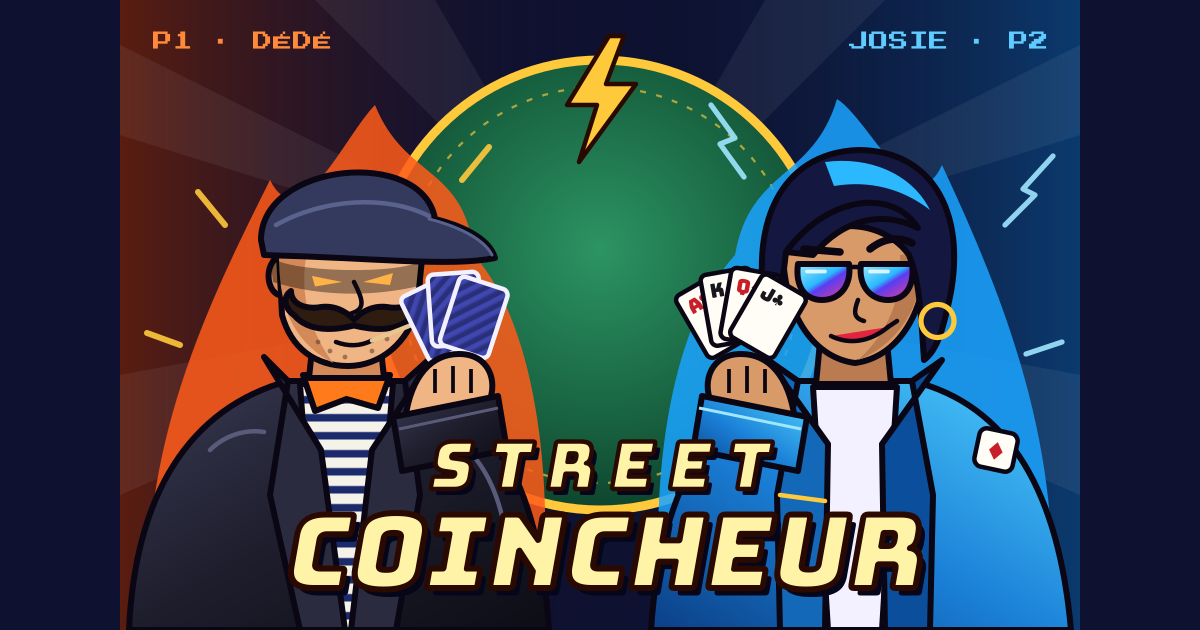
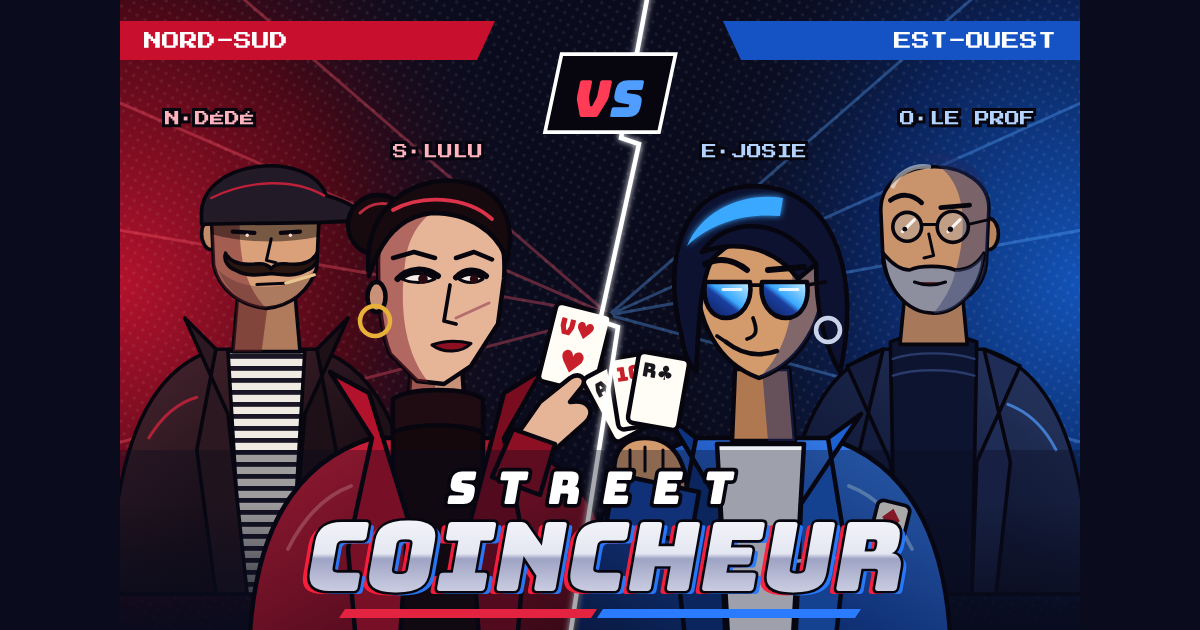
Accueil : affiche 2 contre 2, Nord-Sud en rouge contre Est-Ouest en bleu
Quatre personnages (Dédé, Lulu, Josie, le Prof) en écran de sélection
de jeu de combat, style plus adulte. Aperçu og.png régénéré.

Claude-Session: https://claude.ai/code/session_01HaK1aqZe8j4xzBJQ9dQSjK

diff --git a/poster.js b/poster.js
@@ -1,160 +1,212 @@
-/* Affiche « Dédé contre Josie » (création originale), insérée dans la page pour profiter des polices chargées. */
-window.SC_POSTER = `<svg xmlns="http://www.w3.org/2000/svg" viewBox="0 0 640 420" role="img" aria-label="Street Coincheur : Dédé contre Josie, cartes en main, sur un tapis de coinche">
+/* Affiche « Nord-Sud contre Est-Ouest » (création originale), écran de sélection 2 contre 2,
+   insérée dans la page pour profiter des polices chargées.
+   Les bustes sont dessinés tournés vers la droite ; l'équipe Est-Ouest est retournée en miroir. */
+window.SC_POSTER = `<svg xmlns="http://www.w3.org/2000/svg" viewBox="0 0 640 420" role="img" aria-label="Street Coincheur : Nord-Sud contre Est-Ouest, Dédé et Lulu en rouge face à Josie et le Prof en bleu">
   <defs>
-    <radialGradient id="sc-felt" cx="50%" cy="42%" r="62%"><stop offset="0" stop-color="#2c9463"/><stop offset=".65" stop-color="#17603f"/><stop offset="1" stop-color="#0c3f2a"/></radialGradient>
-    <linearGradient id="sc-fire" x1="0" y1="0" x2="0" y2="1"><stop offset="0" stop-color="#fff3a8"/><stop offset=".38" stop-color="#ffc93c"/><stop offset=".7" stop-color="#ff8a1a"/><stop offset="1" stop-color="#e2241b"/></linearGradient>
-    <linearGradient id="sc-leather" x1="0" y1="0" x2="1" y2="1"><stop offset="0" stop-color="#3a3a54"/><stop offset=".5" stop-color="#1d1d2c"/><stop offset="1" stop-color="#0d0d16"/></linearGradient>
-    <linearGradient id="sc-perfecto" x1="1" y1="0" x2="0" y2="1"><stop offset="0" stop-color="#4fd0ff"/><stop offset=".55" stop-color="#1a7fd6"/><stop offset="1" stop-color="#0b3f86"/></linearGradient>
-    <linearGradient id="sc-mirror" x1="0" y1="0" x2="1" y2="1"><stop offset="0" stop-color="#9ff0ff"/><stop offset=".45" stop-color="#2bb8ff"/><stop offset=".55" stop-color="#5a3df0"/><stop offset="1" stop-color="#ff3d8a"/></linearGradient>
-    <linearGradient id="sc-bgL" x1="0" y1="0" x2="1" y2="0"><stop offset="0" stop-color="#5a1d10"/><stop offset="1" stop-color="#0e1130" stop-opacity="0"/></linearGradient>
-    <linearGradient id="sc-bgR" x1="1" y1="0" x2="0" y2="0"><stop offset="0" stop-color="#0b3a6e"/><stop offset="1" stop-color="#0e1130" stop-opacity="0"/></linearGradient>
-    <pattern id="sc-stripes" width="12" height="12" patternUnits="userSpaceOnUse"><rect width="12" height="12" fill="#f5f2ea"/><rect width="12" height="5" fill="#1b2a6b"/></pattern>
-    <pattern id="sc-back" width="7" height="7" patternUnits="userSpaceOnUse" patternTransform="rotate(45)"><rect width="7" height="7" fill="#2a2f7a"/><rect width="3.5" height="7" fill="#4048b0"/></pattern>
-    <filter id="sc-blur" x="-30%" y="-30%" width="160%" height="160%"><feGaussianBlur stdDeviation="9"/></filter>
-    <filter id="sc-glow" x="-50%" y="-50%" width="200%" height="200%"><feGaussianBlur stdDeviation="2.5" result="b"/><feMerge><feMergeNode in="b"/><feMergeNode in="SourceGraphic"/></feMerge></filter>
+    <radialGradient id="sc-glowR" cx="0%" cy="45%" r="80%"><stop offset="0" stop-color="#b3122c"/><stop offset=".55" stop-color="#4a0816"/><stop offset="1" stop-color="#0a0c1e" stop-opacity="0"/></radialGradient>
+    <radialGradient id="sc-glowB" cx="100%" cy="45%" r="80%"><stop offset="0" stop-color="#1253b8"/><stop offset=".55" stop-color="#0a2156"/><stop offset="1" stop-color="#0a0c1e" stop-opacity="0"/></radialGradient>
+    <linearGradient id="sc-chrome" x1="0" y1="0" x2="0" y2="1"><stop offset="0" stop-color="#ffffff"/><stop offset=".48" stop-color="#e4e6f2"/><stop offset=".52" stop-color="#9ea3c4"/><stop offset="1" stop-color="#f1f2fa"/></linearGradient>
+    <linearGradient id="sc-redcoat" x1="0" y1="0" x2="1" y2="1"><stop offset="0" stop-color="#e3233f"/><stop offset=".55" stop-color="#8c0f24"/><stop offset="1" stop-color="#3a0610"/></linearGradient>
+    <linearGradient id="sc-redleather" x1="0" y1="0" x2="1" y2="1"><stop offset="0" stop-color="#4a2630"/><stop offset=".5" stop-color="#22121a"/><stop offset="1" stop-color="#0f080c"/></linearGradient>
+    <linearGradient id="sc-bluecoat" x1="0" y1="0" x2="1" y2="1"><stop offset="0" stop-color="#3f8dff"/><stop offset=".55" stop-color="#1546a8"/><stop offset="1" stop-color="#081c4a"/></linearGradient>
+    <linearGradient id="sc-blueblazer" x1="0" y1="0" x2="1" y2="1"><stop offset="0" stop-color="#2a3a66"/><stop offset=".5" stop-color="#162042"/><stop offset="1" stop-color="#0a1024"/></linearGradient>
+    <linearGradient id="sc-mirror" x1="0" y1="0" x2="1" y2="1"><stop offset="0" stop-color="#c8f2ff"/><stop offset=".45" stop-color="#3aa8ff"/><stop offset=".55" stop-color="#1b3fa0"/><stop offset="1" stop-color="#0a1a50"/></linearGradient>
+    <linearGradient id="sc-fadeL" x1="0" y1="0" x2="0" y2="1"><stop offset=".55" stop-color="#0a0c1e" stop-opacity="0"/><stop offset="1" stop-color="#0a0c1e" stop-opacity=".9"/></linearGradient>
+    <pattern id="sc-dots" width="6" height="6" patternUnits="userSpaceOnUse" patternTransform="rotate(30)"><circle cx="3" cy="3" r="1.1" fill="#ffffff"/></pattern>
+    <pattern id="sc-stripes" width="10" height="10" patternUnits="userSpaceOnUse"><rect width="10" height="10" fill="#efeae2"/><rect width="10" height="4" fill="#1a1626"/></pattern>
+    <pattern id="sc-back" width="6" height="6" patternUnits="userSpaceOnUse" patternTransform="rotate(45)"><rect width="6" height="6" fill="#6a0a1c"/><rect width="3" height="6" fill="#a8142e"/></pattern>
+    <filter id="sc-glow" x="-50%" y="-50%" width="200%" height="200%"><feGaussianBlur stdDeviation="2.2" result="b"/><feMerge><feMergeNode in="b"/><feMergeNode in="SourceGraphic"/></feMerge></filter>
+    <filter id="sc-soft" x="-30%" y="-30%" width="160%" height="160%"><feGaussianBlur stdDeviation="14"/></filter>
   </defs>
 
-  <!-- Fond : nuit, camps en couleur, tapis -->
-  <rect width="640" height="420" fill="#0e1130"/>
-  <rect width="320" height="420" fill="url(#sc-bgL)"/>
-  <rect x="320" width="320" height="420" fill="url(#sc-bgR)"/>
-  <g fill="#ffffff" opacity=".06">
-    <path d="M320 190 L 0 30 L 0 90 Z"/><path d="M320 190 L 0 250 L 0 330 Z"/><path d="M320 190 L 130 0 L 210 0 Z"/>
-    <path d="M320 190 L 640 30 L 640 90 Z"/><path d="M320 190 L 640 250 L 640 330 Z"/><path d="M320 190 L 510 0 L 430 0 Z"/>
-  </g>
-  <circle cx="320" cy="190" r="150" fill="url(#sc-felt)" stroke="#ffc93c" stroke-width="6"/>
-  <circle cx="320" cy="190" r="132" fill="none" stroke="#ffc93c" stroke-width="1.5" stroke-dasharray="4 7" opacity=".65"/>
-
-  <!-- Auras -->
-  <g filter="url(#sc-blur)" opacity=".85">
-    <path d="M20 420 C 10 300, 60 200, 100 120 C 120 160, 150 90, 170 70 C 190 120, 230 110, 236 170 C 280 220, 290 330, 280 420 Z" fill="#ff5a1a"/>
-    <path d="M620 420 C 630 300, 590 200, 548 110 C 530 150, 500 80, 478 66 C 462 120, 420 112, 410 170 C 364 220, 352 330, 362 420 Z" fill="#1aa3ff"/>
-  </g>
-  <g fill="none" stroke-linecap="round" opacity=".9">
-    <path d="M70 150 L 52 128 M 228 120 L 246 98 M 40 230 L 18 222" stroke="#ffc93c" stroke-width="4"/>
-    <path d="M416 118 L 400 96 L 410 92 L 394 70 M 590 150 L 610 130 L 602 126 L 622 104 M 604 236 L 628 228" stroke="#9fe6ff" stroke-width="3.5" stroke-linejoin="round"/>
+  <!-- ===== Fond : deux camps séparés par une faille ===== -->
+  <rect width="640" height="420" fill="#0a0c1e"/>
+  <path d="M0 0 H 352 L 300 420 H 0 Z" fill="url(#sc-glowR)"/>
+  <path d="M352 0 H 640 V 420 H 300 Z" fill="url(#sc-glowB)"/>
+  <path d="M0 0 H 352 L 300 420 H 0 Z" fill="url(#sc-dots)" opacity=".07"/>
+  <path d="M352 0 H 640 V 420 H 300 Z" fill="url(#sc-dots)" opacity=".07"/>
+  <g stroke-width="2" opacity=".35">
+    <path d="M326 210 L -20 60 M 326 210 L -20 150 M 326 210 L -20 300 M 326 210 L 60 -20" stroke="#ff5a6e"/>
+    <path d="M326 210 L 660 60 M 326 210 L 660 150 M 326 210 L 660 300 M 326 210 L 590 -20" stroke="#5aa8ff"/>
   </g>
 
-  <!-- Plaques de nom -->
-  <g font-family="'Press Start 2P', monospace" font-size="13">
-    <text x="22" y="34" fill="#ff8a3a">P1 · DÉDÉ</text>
-    <text x="618" y="34" fill="#5fcbff" text-anchor="end">JOSIE · P2</text>
-  </g>
-
-  <!-- ================= DÉDÉ ================= -->
-  <g stroke="#0a0614" stroke-width="4" stroke-linejoin="round" stroke-linecap="round">
-    <!-- buste : blouson de cuir ouvert sur la marinière -->
-    <path d="M6 420 C 10 330, 46 272, 112 254 L 190 254 C 252 270, 280 330, 286 420 Z" fill="url(#sc-leather)"/>
-    <path d="M120 256 L 182 256 L 168 420 L 132 420 Z" fill="url(#sc-stripes)"/>
-    <path d="M112 254 L 96 238 L 134 300 L 150 420 L 120 420 L 100 330 Z" fill="#2b2b40"/>
-    <path d="M190 254 L 210 236 L 168 300 L 154 420 L 184 420 L 200 330 Z" fill="#2b2b40"/>
-    <path d="M60 300 C 70 290, 84 286, 96 288" fill="none" stroke="#5a5a7a" stroke-width="3"/>
-    <path d="M232 300 C 244 312, 252 330, 256 350" fill="none" stroke="#5a5a7a" stroke-width="3"/>
-    <!-- bandana orange -->
-    <path d="M122 250 L 180 250 L 172 272 L 151 266 L 130 274 Z" fill="#ff7a1a"/>
-    <!-- cou -->
-    <path d="M130 214 L 172 214 L 176 252 L 126 252 Z" fill="#d48a58"/>
-    <!-- tête anguleuse + ombre portée -->
-    <ellipse cx="108" cy="184" rx="9" ry="13" fill="#d48a58"/>
-    <path d="M106 170 C 104 126, 198 116, 202 166 L 198 206 C 192 228, 174 244, 152 244 C 130 244, 114 232, 108 210 Z" fill="#f0b585"/>
-    <path d="M106 170 C 106 200, 112 226, 142 242 C 126 220, 120 196, 124 172 Z" fill="#d48a58" stroke="none"/>
-    <!-- barbe de trois jours -->
-    <g fill="#5a3a28" stroke="none" opacity=".55">
-      <circle cx="132" cy="228" r="1.6"/><circle cx="140" cy="234" r="1.6"/><circle cx="168" cy="234" r="1.6"/><circle cx="178" cy="226" r="1.6"/><circle cx="150" cy="238" r="1.6"/><circle cx="186" cy="214" r="1.6"/><circle cx="124" cy="216" r="1.6"/>
-    </g>
-    <!-- casquette baissée, ombre sur les yeux -->
-    <path d="M100 170 C 104 182, 196 184, 202 172 L 202 190 C 170 198, 134 198, 102 188 Z" fill="#000" opacity=".38" stroke="none"/>
-    <path d="M94 160 C 94 108, 202 98, 210 146 C 226 150, 246 158, 250 172 C 220 178, 170 172, 96 170 Z" fill="#343a5e"/>
-    <path d="M104 150 C 136 132, 178 130, 206 144" fill="none" stroke="#5a628e" stroke-width="3"/>
-    <path d="M206 146 C 222 150, 242 158, 248 170" fill="none" stroke="#5a628e" stroke-width="2"/>
-    <!-- regard qui brille -->
-    <g filter="url(#sc-glow)" stroke="none">
-      <path d="M128 184 L 148 188 L 130 191 Z" fill="#ffb347"/>
-      <path d="M182 182 L 162 188 L 180 190 Z" fill="#ffb347"/>
-    </g>
-    <path d="M156 188 C 162 200, 164 206, 154 209" fill="none" stroke-width="3"/>
+  <!-- ===== Arrière-plan : Dédé (Nord) et le Prof (Ouest) ===== -->
+  <!-- DÉDÉ : gapette, moustache, blouson de cuir sur marinière -->
+  <g transform="translate(96 156) scale(.8)" stroke="#07060f" stroke-width="3" stroke-linejoin="round" stroke-linecap="round">
+    <path d="M-128 300 C -126 180, -96 112, -40 96 L 44 96 C 98 112, 128 180, 130 300 Z" fill="url(#sc-redleather)"/>
+    <path d="M-30 98 L 34 98 L 22 300 L -18 300 Z" fill="url(#sc-stripes)"/>
+    <path d="M-40 96 L -66 70 L -30 150 L -14 300 L -40 300 L -56 180 Z" fill="#2c1820"/>
+    <path d="M44 96 L 70 70 L 34 150 L 22 300 L 48 300 L 60 180 Z" fill="#1d1016"/>
+    <path d="M-96 170 C -84 150, -70 140, -56 136" fill="none" stroke="#e3233f" stroke-width="2.5" opacity=".7"/>
+    <path d="M-22 52 L 26 52 L 30 98 L -26 98 Z" fill="#b07a5c"/>
+    <path d="M-22 52 L 4 52 L -2 98 L -26 98 Z" fill="#5c1a22" opacity=".55" stroke="none"/>
+    <ellipse cx="-44" cy="0" rx="8" ry="13" fill="#c48c68"/>
+    <path d="M-44 -18 L -42 26 C -38 46, -20 60, 2 62 C 22 60, 38 48, 44 28 L 46 -18 C 46 -50, -44 -54, -44 -18 Z" fill="#d9a07a"/>
+    <path d="M-44 -18 L -42 26 C -38 46, -20 60, 2 62 C -14 46, -22 22, -20 -18 Z" fill="#6e1c28" opacity=".5" stroke="none"/>
+    <path d="M-38 30 C -30 50, -14 60, 2 62 C 20 60, 34 50, 42 30 C 30 40, 16 44, 2 44 C -14 44, -28 40, -38 30 Z" fill="#3a1a1a" opacity=".28" stroke="none"/>
+    <!-- gapette : visière basse, ombre sur les yeux -->
+    <path d="M-44 -14 L 48 -14 L 46 2 C 18 8, -16 8, -44 0 Z" fill="#000" opacity=".45" stroke="none"/>
+    <path d="M-52 -14 C -56 -62, 38 -72, 52 -32 C 66 -28, 80 -22, 84 -12 C 54 -8, 10 -10, -52 -8 Z" fill="#221a26"/>
+    <path d="M-44 -30 C -12 -46, 26 -46, 50 -32" fill="none" stroke="#e3233f" stroke-width="2" opacity=".8"/>
+    <!-- yeux plissés -->
+    <path d="M-26 -2 L -8 -1" stroke-width="3.5"/><path d="M14 -1 L 30 -2" stroke-width="3.5"/>
+    <circle cx="-14" cy="1" r="1.4" fill="#ffd9d9" stroke="none"/><circle cx="22" cy="1" r="1.4" fill="#ffd9d9" stroke="none"/>
+    <path d="M6 4 L 2 22 L 10 24" fill="none" stroke-width="2.5"/>
     <!-- moustache en guidon -->
-    <path d="M116 210 C 110 206, 108 198, 114 194 C 114 202, 122 206, 132 205 C 142 203, 150 207, 156 213 C 162 207, 170 203, 180 205 C 190 206, 198 202, 198 194 C 204 198, 202 206, 196 210 C 186 222, 168 220, 156 217 C 144 220, 126 222, 116 210 Z" fill="#2e1c10"/>
-    <!-- bouche + cure-dent -->
-    <path d="M144 228 C 152 231, 160 231, 168 227" fill="none" stroke-width="3"/>
-    <path d="M168 227 L 196 216" stroke="#e8c690" stroke-width="3"/>
-  </g>
-  <!-- main de Dédé : éventail de dos -->
-  <g stroke="#0a0614" stroke-width="3" stroke-linejoin="round" transform="translate(-6 -50)">
-    <g transform="translate(232 292)">
-      <rect x="-17" y="-56" width="34" height="48" rx="4" fill="url(#sc-back)" stroke="#f3f1ff" transform="rotate(-26)"/>
-      <rect x="-17" y="-60" width="34" height="48" rx="4" fill="url(#sc-back)" stroke="#f3f1ff" transform="rotate(-4)"/>
-      <rect x="-17" y="-56" width="34" height="48" rx="4" fill="url(#sc-back)" stroke="#f3f1ff" transform="rotate(18)"/>
-    </g>
-    <path d="M196 330 C 200 300, 214 286, 232 286 C 252 286, 258 304, 252 318 C 246 334, 214 342, 196 330 Z" fill="#f0b585" stroke-width="4"/>
-    <path d="M216 296 L 216 312 M 228 294 L 228 312 M 240 296 L 240 312" stroke-width="2.5" fill="none"/>
-    <path d="M188 328 L 258 314 L 264 350 L 194 364 Z" fill="url(#sc-leather)" stroke-width="4"/>
-    <path d="M192 336 L 258 322" stroke="#5a5a7a" stroke-width="2"/>
+    <path d="M-24 30 C -30 28, -34 22, -32 16 C -28 24, -18 26, -8 25 C 0 24, 4 26, 6 29 C 8 26, 12 24, 20 25 C 30 26, 40 24, 44 16 C 46 22, 42 28, 36 30 C 26 36, 14 34, 6 33 C -2 34, -14 36, -24 30 Z" fill="#2a1610"/>
+    <path d="M-6 42 L 18 41" stroke-width="2.5"/>
+    <path d="M18 41 L 42 34" stroke="#e8c690" stroke-width="2.5"/>
   </g>
 
-  <!-- ================= JOSIE ================= -->
-  <g stroke="#0a0614" stroke-width="4" stroke-linejoin="round" stroke-linecap="round">
-    <!-- perfecto bleu court sur tee blanc -->
-    <path d="M354 420 C 360 330, 390 272, 452 254 L 528 254 C 594 270, 626 330, 634 420 Z" fill="url(#sc-perfecto)"/>
-    <path d="M462 258 L 518 258 L 508 420 L 472 420 Z" fill="#f3f1ff"/>
-    <path d="M452 254 L 432 240 L 472 296 L 470 420 L 440 420 L 438 330 Z" fill="#1468b8"/>
-    <path d="M528 254 L 548 240 L 508 296 L 510 420 L 540 420 L 542 330 Z" fill="#0b4f9c"/>
-    <path d="M440 330 L 470 334" stroke="#ffc93c" stroke-width="3"/>
-    <path d="M384 300 C 396 290, 410 286, 424 288" fill="none" stroke="#9fe6ff" stroke-width="3"/>
-    <!-- écusson ♦ sur l'épaule -->
-    <g transform="translate(584 300) rotate(12)"><rect x="-13" y="-13" width="26" height="26" rx="5" fill="#fffdf6" stroke-width="3"/><text x="0" y="8" text-anchor="middle" font-family="'Atkinson Hyperlegible', 'DejaVu Sans', Arial, sans-serif" font-size="20" fill="#c8202b" stroke="none">♦</text></g>
-    <!-- cou -->
-    <path d="M468 214 L 510 214 L 514 256 L 464 256 Z" fill="#b97b4f"/>
-    <!-- tête -->
-    <path d="M442 166 C 442 120, 538 116, 538 166 C 538 206, 520 238, 490 242 C 460 238, 442 206, 442 166 Z" fill="#d89a68"/>
-    <path d="M536 168 C 536 200, 522 228, 492 240 C 512 222, 522 198, 520 170 Z" fill="#b97b4f" stroke="none"/>
-    <!-- carré asymétrique, mèche électrique -->
-    <path d="M432 214 C 418 150, 440 102, 492 100 C 544 100, 566 146, 552 204 C 548 222, 544 234, 536 240 C 534 214, 534 190, 526 170 C 512 150, 476 140, 444 168 C 442 186, 440 202, 432 214 Z" fill="#14173f"/>
-    <path d="M444 168 C 470 132, 514 124, 532 152 C 508 140, 482 146, 462 170 Z" fill="#14173f"/>
-    <path d="M470 108 C 500 104, 528 116, 540 140 C 522 126, 500 120, 476 124 Z" fill="#2bb8ff" stroke="none" filter="url(#sc-glow)"/>
+  <!-- LE PROF : crâne rasé, barbe poivre et sel, lunettes rondes (retourné en miroir) -->
+  <g transform="translate(544 156) scale(-.8 .8)" stroke="#07060f" stroke-width="3" stroke-linejoin="round" stroke-linecap="round">
+    <path d="M-128 300 C -126 180, -96 112, -40 96 L 44 96 C 98 112, 128 180, 130 300 Z" fill="url(#sc-blueblazer)"/>
+    <path d="M-34 90 C -16 82, 22 82, 38 90 L 34 300 L -30 300 Z" fill="#0d1430"/>
+    <path d="M-32 104 C -12 98, 18 98, 36 104 M -32 118 C -12 112, 18 112, 36 118" fill="none" stroke="#2a3a6a" stroke-width="2"/>
+    <path d="M-40 96 L -70 110 L -34 190 L -30 300 L -50 300 L -62 190 Z" fill="#1f2c56"/>
+    <path d="M44 96 L 74 110 L 38 190 L 34 300 L 54 300 L 66 190 Z" fill="#141d3e"/>
+    <path d="M-100 180 C -90 160, -76 148, -60 142" fill="none" stroke="#4f9dff" stroke-width="2.5" opacity=".7"/>
+    <path d="M-22 50 L 26 50 L 30 92 L -26 92 Z" fill="#a8785a"/>
+    <ellipse cx="-44" cy="0" rx="8" ry="13" fill="#b8855f"/>
+    <path d="M-44 -20 C -46 -66, 46 -70, 46 -20 L 44 24 C 40 46, 22 62, 0 62 C -22 60, -40 46, -42 24 Z" fill="#c9946c"/>
+    <path d="M-44 -20 C -46 -66, 0 -72, 14 -64 C -16 -56, -24 -30, -22 0 C -20 26, -12 48, 0 62 C -22 60, -40 46, -42 24 Z" fill="#1c2a66" opacity=".45" stroke="none"/>
+    <path d="M6 -56 C 20 -58, 32 -50, 36 -40" fill="none" stroke="#ffffff" stroke-width="4" opacity=".5"/>
+    <!-- barbe courte taillée -->
+    <path d="M-40 16 C -38 46, -18 66, 2 66 C 24 66, 42 46, 44 16 C 36 26, 28 30, 22 30 C 14 26, -6 26, -16 30 C -26 30, -34 26, -40 16 Z" fill="#8d8f9e"/>
+    <path d="M-40 16 C -38 46, -18 66, 2 66 C -10 52, -16 36, -16 30 C -26 30, -34 26, -40 16 Z" fill="#3a4470" opacity=".5" stroke="none"/>
+    <path d="M-8 40 C 0 43, 10 43, 18 40" fill="#5a2a2a" stroke-width="2.5"/>
+    <!-- lunettes rondes, reflet -->
+    <circle cx="-14" cy="-6" r="13" fill="#9fd0ff" fill-opacity=".18" stroke-width="3"/>
+    <circle cx="24" cy="-6" r="12" fill="#9fd0ff" fill-opacity=".18" stroke-width="3"/>
+    <path d="M-1 -8 L 12 -8 M -27 -8 L -44 -12" stroke-width="2.5" fill="none"/>
+    <path d="M-20 -12 L -10 -2 M 18 -12 L 28 -2" stroke="#ffffff" stroke-width="2.5" opacity=".9"/>
+    <circle cx="-12" cy="-4" r="2.2" fill="#07060f" stroke="none"/><circle cx="26" cy="-4" r="2" fill="#07060f" stroke="none"/>
+    <!-- un sourcil levé : il a déjà compté les atouts -->
+    <path d="M-28 -24 L -4 -22" stroke-width="4"/><path d="M12 -26 C 20 -34, 30 -34, 38 -28" fill="none" stroke-width="4"/>
+    <path d="M6 0 L 2 18 L 10 20" fill="none" stroke-width="2.5"/>
+  </g>
+
+  <!-- fondu des personnages du fond -->
+  <rect x="0" y="230" width="640" height="190" fill="url(#sc-fadeL)"/>
+
+  <!-- ===== Premier plan : Lulu (Sud) et Josie (Est) ===== -->
+  <!-- LULU : chignon tiré, trench rouge col relevé, regard froid -->
+  <g transform="translate(212 196)" stroke="#07060f" stroke-width="3" stroke-linejoin="round" stroke-linecap="round">
+    <path d="M-126 240 C -124 160, -96 112, -44 96 L 44 96 C 96 112, 124 160, 126 240 Z" fill="url(#sc-redcoat)"/>
+    <path d="M-30 74 C -18 66, 20 66, 30 74 L 30 240 L -30 240 Z" fill="#14080c"/>
+    <path d="M-44 96 L -72 52 L -46 66 L -20 150 L -26 240 L -54 240 L -60 170 Z" fill="#b3122c"/>
+    <path d="M44 96 L 70 50 L 44 66 L 22 150 L 28 240 L 52 240 L 58 170 Z" fill="#7a0c20"/>
+    <path d="M-100 170 C -88 146, -74 134, -58 128" fill="none" stroke="#ff8a9a" stroke-width="2.5" opacity=".6"/>
+    <path d="M-18 48 L 16 48 L 18 76 L -20 76 Z" fill="#c99278"/>
+    <path d="M-18 48 L 0 48 L -4 76 L -20 76 Z" fill="#6e1c28" opacity=".5" stroke="none"/>
+    <path d="M-30 70 C -18 62, 18 62, 30 70 L 30 92 C 14 86, -14 86, -30 92 Z" fill="#1e0c12"/>
+    <!-- chignon -->
+    <circle cx="-40" cy="-46" r="20" fill="#170a0e"/>
+    <path d="M-52 -54 C -44 -62, -32 -62, -26 -56" fill="none" stroke="#ff3b55" stroke-width="2" opacity=".7"/>
+    <!-- visage anguleux -->
+    <path d="M-40 -22 C -40 -52, -12 -64, 14 -62 C 38 -60, 46 -38, 44 -10 L 40 20 L 22 48 L 4 60 L -14 58 L -32 40 C -38 26, -40 6, -40 -22 Z" fill="#e6b597"/>
+    <path d="M-40 -22 C -40 6, -38 26, -32 40 L -14 58 L -6 59 C -22 40, -26 10, -22 -20 C -20 -40, -10 -52, 4 -60 C -20 -60, -40 -48, -40 -22 Z" fill="#7a1c2a" opacity=".5" stroke="none"/>
+    <path d="M12 16 L 34 6" stroke="#a0505a" stroke-width="2" opacity=".7"/>
+    <!-- cheveux plaqués, une mèche rouge -->
+    <path d="M-46 -12 C -52 -62, -10 -82, 20 -74 C 44 -68, 52 -46, 46 -22 C 40 -42, 20 -54, -4 -54 C -24 -52, -38 -38, -46 -12 Z" fill="#170a0e"/>
+    <path d="M-30 -56 C -12 -66, 18 -66, 36 -50" fill="none" stroke="#ff3b55" stroke-width="2.5" opacity=".85"/>
+    <ellipse cx="-41" cy="2" rx="6" ry="10" fill="#c99278"/>
+    <!-- yeux mi-clos -->
+    <path d="M-24 -10 C -18 -15, -8 -15, -2 -10 C -8 -7, -18 -7, -24 -10 Z" fill="#f4ece8" stroke-width="2"/>
+    <path d="M14 -10 C 18 -14, 26 -14, 30 -10 C 26 -7, 18 -7, 14 -10 Z" fill="#f4ece8" stroke-width="2"/>
+    <circle cx="-10" cy="-10" r="3.2" fill="#2a0a10" stroke="none"/><circle cx="24" cy="-10" r="2.8" fill="#2a0a10" stroke="none"/>
+    <path d="M-27 -10 C -20 -18, -8 -18, 0 -12" fill="none" stroke-width="4"/>
+    <path d="M12 -11 C 18 -17, 26 -17, 32 -12" fill="none" stroke-width="4"/>
+    <path d="M-30 -24 L -16 -28 L -2 -24" fill="none" stroke-width="3"/><path d="M12 -24 L 24 -28 L 36 -23" fill="none" stroke-width="3"/>
+    <path d="M8 -6 L 4 18 L 12 20" fill="none" stroke-width="2.5"/>
+    <!-- bouche serrée, rouge sombre -->
+    <path d="M-4 34 C 4 31, 14 31, 22 33 C 16 39, 4 40, -4 34 Z" fill="#8e0f22" stroke-width="2"/>
+    <circle cx="-42" cy="18" r="10" fill="none" stroke="#e8b23a" stroke-width="3"/>
+  </g>
+  <!-- main de Lulu : une carte tenue entre deux doigts -->
+  <g stroke="#07060f" stroke-width="3" stroke-linejoin="round" stroke-linecap="round">
+    <g transform="translate(296 262) rotate(14)">
+      <rect x="-19" y="-58" width="38" height="54" rx="4" fill="#fffdf6"/>
+      <text x="-14" y="-38" font-family="Bungee, 'DejaVu Sans', 'Arial Black', sans-serif" font-size="15" fill="#c8202b" stroke="none">V♥</text>
+      <text x="0" y="-14" text-anchor="middle" font-family="'Atkinson Hyperlegible', 'DejaVu Sans', Arial, sans-serif" font-size="20" fill="#c8202b" stroke="none">♥</text>
+    </g>
+    <path d="M280 268 L 300 252 C 306 248, 312 252, 308 258 L 300 268 C 312 266, 318 274, 310 282 L 292 298 C 280 306, 266 300, 266 288 Z" fill="#e6b597"/>
+    <path d="M262 286 L 290 296 L 280 330 L 248 318 Z" fill="#8c0f24"/>
+  </g>
+
+  <!-- JOSIE : carré asymétrique, lunettes miroir, perfecto bleu (retournée en miroir) -->
+  <g transform="translate(428 196) scale(-1 1)" stroke="#07060f" stroke-width="3" stroke-linejoin="round" stroke-linecap="round">
+    <path d="M-126 240 C -124 160, -96 112, -44 96 L 44 96 C 96 112, 124 160, 126 240 Z" fill="url(#sc-bluecoat)"/>
+    <path d="M-28 100 L 30 100 L 22 240 L -20 240 Z" fill="#eef0f8"/>
+    <path d="M-44 96 L -66 80 L -26 140 L -22 240 L -48 240 L -56 170 Z" fill="#1d5fd0"/>
+    <path d="M44 96 L 64 80 L 28 140 L 24 240 L 50 240 L 58 170 Z" fill="#0d3482"/>
+    <path d="M-48 176 L -24 178" stroke="#c8cfe8" stroke-width="2.5"/>
+    <path d="M-100 170 C -88 146, -74 134, -58 128" fill="none" stroke="#9fd0ff" stroke-width="2.5" opacity=".7"/>
+    <g transform="translate(-86 150) rotate(-14)"><rect x="-11" y="-11" width="22" height="22" rx="4" fill="#fffdf6" stroke-width="2.5"/><path d="M0 -7 L 6 0 L 0 7 L -6 0 Z" fill="#c8202b" stroke="none"/></g>
+    <path d="M-18 50 L 18 50 L 20 98 L -22 98 Z" fill="#b07850"/>
+    <path d="M-18 50 L 0 50 L -4 98 L -22 98 Z" fill="#1c2a66" opacity=".5" stroke="none"/>
+    <path d="M-42 -16 C -42 -56, 42 -60, 44 -16 C 44 18, 30 46, 2 56 C -26 46, -42 18, -42 -16 Z" fill="#d39a6c"/>
+    <path d="M-42 -16 C -42 18, -26 46, 2 56 C -16 38, -22 14, -20 -14 C -18 -36, -6 -50, 8 -56 C -20 -56, -42 -42, -42 -16 Z" fill="#1c2a66" opacity=".45" stroke="none"/>
+    <!-- carré asymétrique, mèche bleu électrique -->
+    <path d="M-52 52 C -66 -10, -50 -70, 4 -72 C 56 -72, 66 -20, 54 26 C 52 40, 48 48, 44 52 C 42 22, 42 -4, 34 -22 C 18 -42, -16 -46, -36 -20 C -36 6, -40 32, -52 52 Z" fill="#0c1230"/>
+    <path d="M-36 -20 C -16 -50, 22 -54, 40 -28 C 18 -36, -8 -32, -24 -10 Z" fill="#0c1230"/>
+    <path d="M-14 -64 C 12 -68, 40 -56, 50 -32 C 34 -48, 10 -54, -12 -52 Z" fill="#3aa8ff" stroke="none" filter="url(#sc-glow)"/>
     <!-- lunettes aviateur miroir -->
-    <path d="M452 176 L 486 176 C 488 190, 480 200, 468 200 C 456 200, 450 190, 452 176 Z" fill="url(#sc-mirror)"/>
-    <path d="M494 176 L 528 176 C 530 190, 524 200, 512 200 C 500 200, 492 190, 494 176 Z" fill="url(#sc-mirror)"/>
-    <path d="M486 178 L 494 178" stroke-width="3"/>
-    <path d="M458 181 L 470 181" stroke="#ffffff" stroke-width="2.5" opacity=".8"/>
-    <path d="M500 181 L 512 181" stroke="#ffffff" stroke-width="2.5" opacity=".8"/>
-    <!-- sourcils : un levé -->
-    <path d="M456 166 L 480 168" stroke-width="5"/><path d="M500 166 C 510 158, 520 158, 528 162" fill="none" stroke-width="5"/>
-    <path d="M492 200 C 489 208, 489 212, 496 214" fill="none" stroke-width="3"/>
+    <path d="M-30 -8 L 0 -8 C 2 6, -6 16, -16 16 C -26 16, -32 6, -30 -8 Z" fill="url(#sc-mirror)"/>
+    <path d="M8 -8 L 38 -8 C 40 6, 34 16, 24 16 C 14 16, 6 6, 8 -8 Z" fill="url(#sc-mirror)"/>
+    <path d="M0 -6 L 8 -6 M -30 -6 L -42 -8" stroke-width="2.5" fill="none"/>
+    <path d="M-24 -3 L -12 -3 M 14 -3 L 26 -3" stroke="#ffffff" stroke-width="2" opacity=".85"/>
+    <path d="M-28 -18 L -4 -16" stroke-width="4"/><path d="M10 -16 C 20 -24, 30 -24, 38 -20" fill="none" stroke-width="4"/>
+    <path d="M6 16 C 3 24, 3 28, 10 30" fill="none" stroke-width="2.5"/>
     <!-- sourire en coin -->
-    <path d="M474 224 C 486 230, 500 228, 512 218" fill="#e2243f" stroke-width="3"/>
-    <path d="M512 218 L 518 214" stroke-width="3"/>
-    <circle cx="545" cy="214" r="11" fill="none" stroke="#ffc93c" stroke-width="3.5"/>
-    <circle cx="436" cy="214" r="9" fill="none" stroke="#ffc93c" stroke-width="3.5"/>
+    <path d="M-10 38 C 2 42, 14 40, 24 32" fill="none" stroke-width="3"/>
+    <path d="M24 32 L 30 28" stroke-width="2.5"/>
+    <circle cx="-44" cy="24" r="8" fill="none" stroke="#c8d2e8" stroke-width="3"/>
   </g>
-  <!-- main de Josie : éventail ouvert, faces visibles -->
-  <g stroke="#0a0614" stroke-width="3" stroke-linejoin="round" transform="translate(6 -50)" font-family="Bungee, 'DejaVu Sans', 'Arial Black', sans-serif" font-size="13">
-    <g transform="translate(408 292)">
-      <g transform="rotate(-30)"><rect x="-17" y="-60" width="34" height="48" rx="4" fill="#fffdf6"/><text x="-12" y="-44" fill="#c8202b" stroke="none">A♥</text></g>
-      <g transform="rotate(-10)"><rect x="-17" y="-62" width="34" height="48" rx="4" fill="#fffdf6"/><text x="-12" y="-46" fill="#17171c" stroke="none">K♠</text></g>
-      <g transform="rotate(10)"><rect x="-17" y="-62" width="34" height="48" rx="4" fill="#fffdf6"/><text x="-12" y="-46" fill="#c8202b" stroke="none">Q♦</text></g>
-      <g transform="rotate(30)"><rect x="-17" y="-60" width="34" height="48" rx="4" fill="#fffdf6"/><text x="-12" y="-44" fill="#17171c" stroke="none">J♣</text></g>
+  <!-- main de Josie : éventail ouvert -->
+  <g stroke="#07060f" stroke-width="3" stroke-linejoin="round" stroke-linecap="round" font-family="Bungee, 'DejaVu Sans', 'Arial Black', sans-serif" font-size="13">
+    <g transform="translate(352 300)">
+      <g transform="rotate(-28)"><rect x="-17" y="-62" width="34" height="48" rx="4" fill="#fffdf6"/><text x="-13" y="-46" fill="#17171c" stroke="none">A♠</text></g>
+      <g transform="rotate(-9)"><rect x="-17" y="-64" width="34" height="48" rx="4" fill="#fffdf6"/><text x="-13" y="-48" fill="#c8202b" stroke="none">10♦</text></g>
+      <g transform="rotate(10)"><rect x="-17" y="-64" width="34" height="48" rx="4" fill="#fffdf6"/><text x="-13" y="-48" fill="#17171c" stroke="none">R♣</text></g>
     </g>
-    <path d="M444 330 C 440 300, 426 286, 408 286 C 388 286, 382 304, 388 318 C 394 334, 426 342, 444 330 Z" fill="#d89a68" stroke-width="4"/>
-    <path d="M424 296 L 424 312 M 412 294 L 412 312 M 400 296 L 400 312" stroke-width="2.5" fill="none"/>
-    <path d="M452 328 L 382 314 L 376 350 L 446 364 Z" fill="url(#sc-perfecto)" stroke-width="4"/>
-    <path d="M448 336 L 380 322" stroke="#9fe6ff" stroke-width="2"/>
+    <path d="M378 330 C 378 304, 366 292, 350 292 C 332 292, 326 308, 332 320 C 338 334, 364 342, 378 330 Z" fill="#d39a6c"/>
+    <path d="M362 300 L 362 314 M 350 298 L 350 314 M 340 300 L 340 314" stroke-width="2" fill="none"/>
+    <path d="M386 328 L 330 316 L 324 350 L 380 362 Z" fill="#1546a8"/>
   </g>
 
-  <!-- VS foudroyant -->
-  <g transform="translate(320 64)" filter="url(#sc-glow)">
-    <path d="M6 -40 L -22 6 L -2 6 L -14 44 L 24 -8 L 4 -8 L 16 -40 Z" fill="#ffc93c" stroke="#2a0a00" stroke-width="3" stroke-linejoin="round"/>
+  <!-- ===== Faille centrale et VS ===== -->
+  <path d="M352 -4 L 334 92 L 346 96 L 320 214 L 332 218 L 300 424" fill="none" stroke="#ffffff" stroke-width="3" filter="url(#sc-glow)"/>
+  <g transform="translate(326 66) skewX(-12)" font-family="Bungee, 'Arial Black', Impact, sans-serif" text-anchor="middle">
+    <rect x="-38" y="-30" width="76" height="52" fill="#07060f" stroke="#ffffff" stroke-width="2.5"/>
+    <text x="0" y="12" font-size="34"><tspan fill="#ff3b55">V</tspan><tspan fill="#4f9dff">S</tspan></text>
   </g>
 
-  <!-- Titre -->
+  <!-- Bandeaux d'équipe et noms -->
+  <g font-family="'Press Start 2P', ui-monospace, monospace">
+    <path d="M0 14 H 250 L 238 40 H 0 Z" fill="#c8102e"/>
+    <path d="M640 14 H 402 L 414 40 H 640 Z" fill="#1553c4"/>
+    <text x="16" y="33" font-size="12" fill="#ffffff">NORD-SUD</text>
+    <text x="624" y="33" font-size="12" fill="#ffffff" text-anchor="end">EST-OUEST</text>
+    <g font-size="10" stroke="#07060f" stroke-width="4" paint-order="stroke">
+      <text x="30" y="84" fill="#ffb3bd">N·DÉDÉ</text>
+      <text x="182" y="106" fill="#ffb3bd">S·LULU</text>
+      <text x="610" y="84" text-anchor="end" fill="#b3d4ff">O·LE PROF</text>
+      <text x="458" y="106" text-anchor="end" fill="#b3d4ff">E·JOSIE</text>
+    </g>
+  </g>
+
+  <!-- ===== Titre ===== -->
+  <path d="M0 300 H 640 V 420 H 0 Z" fill="#0a0c1e" opacity=".35"/>
   <g font-family="Bungee, 'Arial Black', Impact, sans-serif" text-anchor="middle" stroke-linejoin="round">
-    <g transform="translate(56 0) skewX(-10)">
-      <text x="324" y="330" font-size="44" letter-spacing="10" fill="#05061a">STREET</text>
-      <text x="320" y="326" font-size="44" letter-spacing="10" fill="url(#sc-fire)" stroke="#2a0a00" stroke-width="3" paint-order="stroke">STREET</text>
+    <g transform="translate(58 0) skewX(-10)">
+      <text x="320" y="336" font-size="30" letter-spacing="14" fill="#ffffff" stroke="#07060f" stroke-width="5" paint-order="stroke">STREET</text>
     </g>
     <g transform="translate(70 0) skewX(-10)">
-      <text x="325" y="397" font-size="68" fill="#05061a">COINCHEUR</text>
-      <text x="320" y="392" font-size="68" fill="url(#sc-fire)" stroke="#2a0a00" stroke-width="4" paint-order="stroke">COINCHEUR</text>
+      <text x="316" y="396" font-size="64" fill="#ff1f3d" opacity=".95">COINCHEUR</text>
+      <text x="324" y="396" font-size="64" fill="#2a7bff" opacity=".95">COINCHEUR</text>
+      <text x="320" y="394" font-size="64" fill="url(#sc-chrome)" stroke="#07060f" stroke-width="3.5" paint-order="stroke">COINCHEUR</text>
     </g>
+    <path d="M150 406 H 318 L 314 412 H 146 Z" fill="#e3233f"/><path d="M322 406 H 494 L 490 412 H 318 Z" fill="#2a7bff"/>
   </g>
 </svg>`;

diff --git a/index.html b/index.html
@@ -22,16 +22,16 @@
 <link rel="preconnect" href="https://fonts.googleapis.com">
 <link rel="preconnect" href="https://fonts.gstatic.com" crossorigin>
 <link rel="stylesheet" href="https://fonts.googleapis.com/css2?family=Atkinson+Hyperlegible:wght@400;700&family=Barlow+Semi+Condensed:wght@500;600;700&family=Bungee&family=Fraunces:opsz,wght@9..144,600..800&family=Press+Start+2P&display=swap">
-<link rel="stylesheet" href="style.css?v=1792990000">
+<link rel="stylesheet" href="style.css?v=1793028225">
 </head>
 <body>
 <div id="app"></div>
 <div id="fx" aria-live="polite"></div>
-<script src="poster.js?v=1792990000"></script>
-<script src="config.js?v=1792990000"></script>
-<script src="engine.js?v=1792990000"></script>
-<script src="profile.js?v=1792990000"></script>
-<script src="table.js?v=1792990000"></script>
-<script src="app.js?v=1792990000"></script>
+<script src="poster.js?v=1793028225"></script>
+<script src="config.js?v=1793028225"></script>
+<script src="engine.js?v=1793028225"></script>
+<script src="profile.js?v=1793028225"></script>
+<script src="table.js?v=1793028225"></script>
+<script src="app.js?v=1793028225"></script>
 </body>
 </html>
